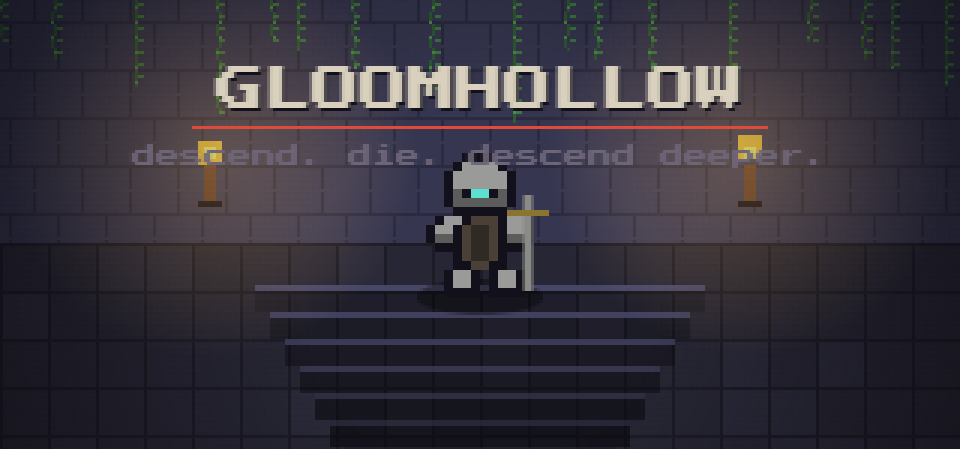
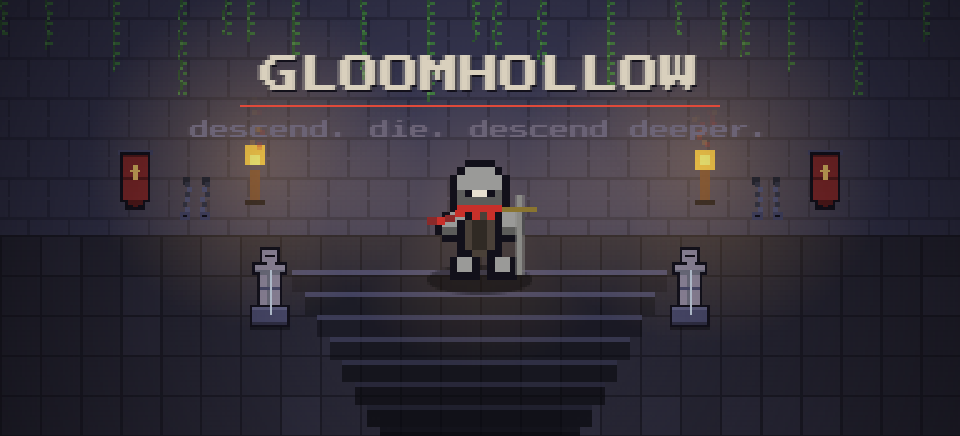
Gloomhollow build 40

diff --git a/index.html b/index.html
@@ -266,7 +266,7 @@ const K='#12101a';
 // Each bearing has its own pixel art (12 wide, 16 tall, feet on the last two rows). Walk frames are derived by nudging the legs apart/together;
 // locked bearings show their silhouette in shadow so you can see the shape you are working toward.
 const SKINS={
- footman:{name:'Footman',desc:'Plain steel. It will do.',rows:['....kkkk....','...kaaaak...','..kaaaaaak..','..kaaaaaak..','..kAkeekAk..','..kAAAAAAk..','...kkkkkk...','.kaakccckaak','kaakcCCckaak','kAAkcCCckAAk','.kkkcCCckkk.','...kcCCck...','...kkcckk...','..kaak.kaak.','..kaak.kaak.','..kkkk.kkkk.'],pal:{k:K,a:'#9a9a98',A:'#5c5c5a',c:'#4a4038',C:'#302a24',e:'#e8e0d0',o:null}},
+ footman:{name:'Footman',desc:'Plain steel. It will do.',rows:['....kkkk....','...kaaaak...','..kaaaaaak..','..kaaaaaak..','..kAkeekAk..','..kAAAAAAk..','..krrrrrrk..','.kaakrcrkaak','kaakcCCckaak','kAAkcCCckAAk','.kkkcCCckkk.','...kcCCck...','...kkcckk...','..kaak.kaak.','..kaak.kaak.','..kkkk.kkkk.'],pal:{k:K,a:'#9a9a98',A:'#5c5c5a',c:'#4a4038',C:'#302a24',e:'#e8e0d0',o:null,r:'#c8302a'}},
  hollow:{name:'Hollow',desc:'Fell 40 hollows',rows:['....kkkk....','...kCCCCk...','..kCCCCCCk..','.kCkwwwwkCk.','.kCkwewewkCk','.kCkwwwwkCk.','..kCkkkkCk..','.kCCCCCCCCk.','kCCcCCCCcCCk','kCCcCCCCcCCk','.kCCCCCCCCk.','.kCkCCCCkCk.','.kk.kCCk.kk.','...kwk.kwk..','...kwk.kwk..','...kkk.kkk..'],pal:{k:K,a:'#3a3440',A:'#2a2430',c:'#3a3440',C:'#2a2430',e:'#e04a3a',o:null,w:'#cfc4b0'},cond:t=>t.gruntKills>=40,prog:t=>[t.gruntKills,40]},
  cultist:{name:'Cultist',desc:'Fell 20 cultists',rows:['.....kk.....','....kCCk....','....kCCk....','...kCCCCk...','...kCCCCk...','..kCkekekCk.','..kCCCCCCk..','.kCCCCCCCCk.','kCCCkggkCCCk','kCCCkggkCCCk','.kCCCCCCCCk.','.kCCCCCCCCk.','.kCCCCCCCCk.','.kCCCCCCCCk.','.kCCkCCkCCk.','.kkkk..kkkk.'],pal:{k:K,a:'#5a3a7a',A:'#3a2450',c:'#5a3a7a',C:'#3a2450',e:'#f4c968',o:null,g:'#f4c968'},cond:t=>t.archerKills>=20,prog:t=>[t.archerKills,20]},
  duelist:{name:'Duelist',desc:'Parry 10 strikes',rows:['.......oo...','.....kkko...','....kaaak...','.kkkkaaakkkk','....ksssk...','....kseesk..','....ksssk...','...kkkkkk...','..kcCcccCck.','.kCkcccccck.','.kCkccccckk.','.kCCkcccck..','..kkkkkkkk..','...kAk.kAk..','...kAk.kAk..','...kkk.kkk..'],pal:{k:K,a:'#3a4050',A:'#2a2a3a',c:'#c8302a',C:'#7a1e1a',e:'#5ce0d0',o:'#f0ece0',s:'#d8c0a0'},cond:t=>t.parries>=10,prog:t=>[t.parries,10]},
@@ -373,6 +373,8 @@ const SPR={
   ".kkk........","koeok..kk...","koookooooOk.",".kkoooooooOk","..kok.kok.Ok","..k.k.k.k..k"],
   {k:K,o:'#e8a33c',O:'#c8503a',e:'#fff0c0'})
 };
+// Rows r0..r1 of a sprite, feet at y: the torso can be drawn a hair wider (sx) and the upper body a pixel higher (dy) without the head growing or the feet leaving the floor.
+function drawSprRows(s,x,y,flip,white,r0,r1,dy,sx){ctx.save();ctx.translate(Math.round(x),Math.round(y));if(flip<0)ctx.scale(-1,1);if(sx&&sx!==1)ctx.scale(sx,1);const img=white?s.white:s.img;ctx.drawImage(img,0,r0,s.w,r1-r0,-Math.floor(s.w/2),-s.h+r0+(dy||0),s.w,r1-r0);ctx.restore();}
 function drawSpr(s,x,y,flip,white,wf){ctx.save();ctx.translate(Math.round(x),Math.round(y));if(flip<0)ctx.scale(-1,1);const img=white?s.white:s.img,ox=-Math.floor(s.w/2);
  if(!wf)ctx.drawImage(img,ox,-s.h);else{const L=3;ctx.drawImage(img,0,0,s.w,s.h-L,ox,-s.h-1,s.w,s.h-L);ctx.drawImage(img,0,s.h-L,s.w,L,ox+wf,-L,s.w,L);}ctx.restore();}
 
@@ -2067,6 +2069,15 @@ function drawFlail(p,sx,sy,sa,moving,a){const dtf=Math.max(0,Math.min(0.05,time-
  ctx.fillStyle=K;ctx.beginPath();ctx.arc(bx,by,4,0,Math.PI*2);ctx.fill();ctx.fillStyle=WEAPONS.mace.col;ctx.beginPath();ctx.arc(bx,by,3,0,Math.PI*2);ctx.fill();
  ctx.fillStyle='#9aa4b4';for(let i=0;i<4;i++){const q=p.fa+i*Math.PI/2+Math.PI/4;ctx.fillRect(bx+Math.cos(q)*3.4-0.7,by+Math.sin(q)*3.4-0.7,1.4,1.4);}ctx.fillStyle='#b8c4d4';ctx.fillRect(Math.round(bx)-1,Math.round(by)-1,1,1);
  return[bx,by];}
+// The Hollow's Chain hangs from the hand as a run of links (a small rope simulation): at rest it droops and sways with each step, held back for a charge it dangles, and a swing whips it out behind the hand so the hook arrives last.
+function drawChain(p,sx,sy,sa,moving,a,len){const N=7,L=Math.max(2,len/(N-1)),swing=p.state==='attack';
+ if(!p.ch||p.ch.length!==N){p.ch=[];for(let i=0;i<N;i++)p.ch.push({x:sx+Math.cos(sa)*L*i,y:sy+Math.sin(sa)*L*i,px:sx+Math.cos(sa)*L*i,py:sy+Math.sin(sa)*L*i});}
+ const ch=p.ch;ch[0].x=sx;ch[0].y=sy;const pull=swing?0.4:p.charging?0.02:0.05,sag=swing?0:0.28;
+ for(let i=1;i<N;i++){const nd=ch[i],vx=(nd.x-nd.px)*0.84,vy=(nd.y-nd.py)*0.84;nd.px=nd.x;nd.py=nd.y;const tx=sx+Math.cos(sa)*L*i,ty=sy+Math.sin(sa)*L*i;nd.x+=vx+(tx-nd.x)*pull;nd.y+=vy+(ty-nd.y)*pull+sag*(i/N)+(moving?Math.sin(p.walk*7+i)*0.12:0);}
+ for(let k=0;k<3;k++){ch[0].x=sx;ch[0].y=sy;for(let i=1;i<N;i++){const a0=ch[i-1],b0=ch[i],dx=b0.x-a0.x,dy=b0.y-a0.y,d=Math.hypot(dx,dy)||1,df=(d-L)/d;if(i===1){b0.x-=dx*df;b0.y-=dy*df;}else{a0.x+=dx*df*0.5;a0.y+=dy*df*0.5;b0.x-=dx*df*0.5;b0.y-=dy*df*0.5;}}}
+ ctx.strokeStyle='#4a4a5c';ctx.lineWidth=1;ctx.beginPath();ctx.moveTo(ch[0].x,ch[0].y);for(let i=1;i<N;i++)ctx.lineTo(ch[i].x,ch[i].y);ctx.stroke();
+ for(let i=1;i<N-1;i++){ctx.fillStyle=i%2?'#9a8f7c':'#6d6578';ctx.beginPath();ctx.arc(ch[i].x,ch[i].y,1.2,0,Math.PI*2);ctx.fill();}
+ const t=ch[N-1];ctx.fillStyle=K;ctx.beginPath();ctx.arc(t.x,t.y,3,0,Math.PI*2);ctx.fill();ctx.fillStyle='#cfc4b0';ctx.beginPath();ctx.arc(t.x,t.y,2.2,0,Math.PI*2);ctx.fill();ctx.fillStyle=K;ctx.fillRect(Math.round(t.x)-1,Math.round(t.y)-1,1,1);return[t.x,t.y];}
 // Your projectiles: a fading trail behind a bright core; bone shards tumble, the lance is a tongue of flame.
 function drawPlayerProj(q){const col=q.col,h=q.hist||[],ang=Math.atan2(q.vy,q.vx);
  for(let i=h.length-1;i>=0;i--){const k=1-i/(h.length+1);ctx.globalAlpha=k*0.45;ctx.fillStyle=col;ctx.beginPath();ctx.arc(h[i].x,h[i].y,Math.max(0.6,q.r*k),0,Math.PI*2);ctx.fill();}ctx.globalAlpha=1;
@@ -2101,7 +2112,9 @@ function drawPlayer(){
   else{const q=(prog-0.18)/0.66,hop=Math.sin(q*Math.PI)*4;ctx.translate(p.x,p.y+1-hop);ctx.rotate(q*Math.PI*2*dir);ctx.drawImage(SPR.roll.img,-5,-4);
    if(Math.random()<0.6)parts.push({x:p.x-p.rollDir.x*4+(Math.random()-.5)*4,y:p.y+p.r-1,vx:-p.rollDir.x*20,vy:-6-Math.random()*8,life:0.25,col:'#6d6578'});}}
  else if(p.state==='fall'){const k=1-p.t/0.75,sc=Math.max(0.15,1-0.85*k*k),drop=10*k;ctx.globalAlpha=Math.max(0,1-k*1.1);ctx.translate(p.x,p.y+p.r+drop);ctx.scale(sc,sc);ctx.rotate(Math.sin(k*9)*0.35*k);ctx.translate(-p.x,-(p.y+p.r));drawSpr(SPR.roll,p.x,p.y+p.r,p.facing,false);}
- else{if(p.inv>0&&Math.floor(p.inv*20)%2===0)ctx.globalAlpha=0.5;if(p.appearT>0){const q=p.appearT/0.3;ctx.translate(p.x,p.y+p.r);ctx.scale(1-0.6*q,1-0.6*q);ctx.translate(-p.x,-(p.y+p.r));}if(idle){ctx.translate(p.x,p.y+p.r);ctx.scale(1-0.015*br,1+0.04*br);ctx.translate(-p.x,-(p.y+p.r));}const wfr=moving?[SPR.walk[0],SPR.player,SPR.walk[1],SPR.player][wframe]:SPR.player;drawSpr(wfr,p.x,p.y+p.r-bob-ib,p.facing,p.flash>0);}
+ else{if(p.inv>0&&Math.floor(p.inv*20)%2===0)ctx.globalAlpha=0.5;if(p.appearT>0){const q=p.appearT/0.3;ctx.translate(p.x,p.y+p.r);ctx.scale(1-0.6*q,1-0.6*q);ctx.translate(-p.x,-(p.y+p.r));}const wfr=moving?[SPR.walk[0],SPR.player,SPR.walk[1],SPR.player][wframe]:SPR.player;
+  if(idle){const sp=SPR.player,H=sp.h,fy=p.y+p.r,legs=3,neck=7,swell=1+0.08*Math.max(0,br),wh=p.flash>0;drawSprRows(sp,p.x,fy,p.facing,wh,H-legs,H,0,1);drawSprRows(sp,p.x,fy,p.facing,wh,neck,H-legs,-ib,swell);drawSprRows(sp,p.x,fy,p.facing,wh,0,neck,-ib,1);}   // breathing from the chest
+  else drawSpr(wfr,p.x,p.y+p.r-bob,p.facing,p.flash>0);}
  ctx.restore();
  if(p.burn>0){const f=Math.floor(time*12)%2;ctx.fillStyle='#e04a3a';ctx.fillRect(Math.round(p.x)-3+f,Math.round(p.y)-12,3,3);ctx.fillRect(Math.round(p.x)+1-f,Math.round(p.y)-9,2,2);ctx.fillStyle='#e8a33c';ctx.fillRect(Math.round(p.x)-2+f,Math.round(p.y)-14+f,2,2);light(p.x,p.y-8,14,'rgba(232,163,60,A)',0.3);}
  if(p.stunT>0){for(let i=0;i<3;i++){const a=time*6+i*2.094;ctx.fillStyle=i===Math.floor(time*9)%3?'#fff0c0':'#f4c968';ctx.fillRect(Math.round(p.x+Math.cos(a)*7)-1,Math.round(p.y-17+Math.sin(a)*2)-1,2,2);}}   // stars while the toll rings in your ears
@@ -2125,7 +2138,7 @@ function drawPlayer(){
   if(w.heavy||a.heavy)len+=3;slash=a.phase==='active';}
  const sx=p.x+Math.cos(sa)*(3+thrust),sy=p.y+Math.sin(sa)*(3+thrust)-2-ib;
  let tipX=sx+Math.cos(sa)*len,tipY=sy+Math.sin(sa)*len;
- if(w.shape==='mace'){const tip=drawFlail(p,sx,sy,sa,moving,a);tipX=tip[0];tipY=tip[1];}else drawWeapon(p.weapon,sx,sy,sa,len);
+ if(w.shape==='mace'){const tip=drawFlail(p,sx,sy,sa,moving,a);tipX=tip[0];tipY=tip[1];}else if(w.shape==='chain'){const tip=drawChain(p,sx,sy,sa,moving,a,len);tipX=tip[0];tipY=tip[1];}else drawWeapon(p.weapon,sx,sy,sa,len);
  if(p.state==='free'&&p.charging){const pr=Math.min(1,p.charge/hv().chg),tx=tipX,ty=tipY;
   if(p.chargeReady){light(tx,ty,14,'rgba(255,255,255,A)',0.45+0.3*Math.sin(time*22));ctx.fillStyle=hexA('#ffffff',0.6+0.4*Math.sin(time*30));ctx.fillRect(Math.round(tx)-1,Math.round(ty)-1,2,2);}
   else light(tx,ty,10,hexA(w.col,'A'),0.1+0.3*pr);}
@@ -2177,8 +2190,11 @@ function drawHUD(){
   if(w.arc>=1){ctx.strokeStyle='rgba(244,201,104,.3)';ctx.lineWidth=1;ctx.beginPath();ctx.arc(x0,y0,w.range,a-w.arc/2,a+w.arc/2);ctx.stroke();}
   ctx.restore();ctx.fillStyle='#f4c968';ctx.fillRect(Math.round(x0+Math.cos(a)*L)-1,Math.round(y0+Math.sin(a)*L)-1,3,3);}
  const it=p.state==='free'?nearItem():null;
- if(it){const label=itemLabel(it)+(it.price>0?'  '+priceOf(it):'');const wdt=label.length*8+8;let x=Math.round(it.x-wdt/2);x=Math.max(2-OFFX,Math.min(W-wdt-2-OFFX,x));const y=Math.round(it.y-26);
-  ctx.fillStyle='rgba(12,11,18,.85)';ctx.fillRect(x,y,wdt,11);txt(label,x+4,y+2,priceOf(it)>souls?'#c8302a':'#f4c968');txt('Q',x+wdt/2-4,y+12,'#6d6578');}
+ if(it){const full=itemLabel(it),price=it.price>0?String(priceOf(it)):'';let L=full.length>22?msgLines(full.replace(' (',' \u2022 (')):[full];if(L.length===1&&full.length>22){const k=full.lastIndexOf(' ',24);if(k>6)L=[full.slice(0,k),full.slice(k+1)];}
+  if(price){if(L[L.length-1].length+price.length+2<=26)L[L.length-1]+='  '+price;else L.push(price+' souls');}
+  const wdt=Math.max(...L.map(t=>t.length))*8+8+12,hgt=L.length*9+4;let x=Math.round(it.x-wdt/2);x=Math.max(2-OFFX,Math.min(W-wdt-2-OFFX,x));const y=Math.round(it.y-18-hgt);
+  ctx.fillStyle='rgba(12,11,18,.85)';ctx.fillRect(x,y,wdt,hgt);const col=priceOf(it)>souls?'#c8302a':'#f4c968';L.forEach((t,i)=>txt(t,x+4,y+2+i*9,col));ctx.fillStyle='#2e2d42';ctx.fillRect(x+wdt-11,y+2,9,9);txt('Q',x+wdt-10,y+3,'#8a8296');
+  ctx.fillStyle='rgba(12,11,18,.85)';ctx.fillRect(Math.round(it.x)-1,y+hgt,2,2);}   // a two-line card centred on the item with the key in its corner; a tick points down at the item
  if(msg.t>0){ctx.globalAlpha=Math.min(1,msg.t*2);ctx.setTransform(1,0,0,1,0,0);const L=msgLines(msg.txt),mw=Math.max(...L.map(s=>s.length))*8+12,y0=CH-30-(L.length-1)*10;   // room messages sit at the foot of the screen, clear of item labels
   ctx.fillStyle='rgba(12,11,18,.8)';ctx.fillRect(Math.round(W/2-mw/2),y0-3,mw,L.length*10+5);L.forEach((s,i)=>txt(s,W/2,y0+i*10,'#f4c968','center'));msg.y=y0;ctx.setTransform(1,0,0,1,OFFX,OFFY);ctx.globalAlpha=1;}
 }
@@ -2354,8 +2370,13 @@ function draw(){
   ctx.fillStyle='#06060a';ctx.fillRect(Math.round(sx-45),sy+99,90,CH-(sy+99));
   // torches
   for(const tx of [W/2-90,W/2+90]){const ty=ly-26;ctx.fillStyle='#5a3a2a';ctx.fillRect(tx-2,ty,4,14);ctx.fillStyle=K;ctx.fillRect(tx-4,ty+12,8,2);const f=Math.sin(time*18+tx)*0.5+0.5;ctx.fillStyle='#e8a33c';ctx.fillRect(tx-4,ty-8-Math.round(f*2),8,8);ctx.fillStyle='#f4c968';ctx.fillRect(tx-2,ty-6,4,4);light(tx,ty-4,70+Math.sin(time*11+tx)*4,'rgba(232,163,60,A)',0.28);}
-  // knight, 3x, standing at the top step, sword planted
-  const kx=W/2,ky=sy+4;ctx.save();ctx.translate(kx,ky);ctx.scale(3,3);ctx.fillStyle='rgba(0,0,0,.35)';ctx.beginPath();ctx.ellipse(0,0,7,2,0,0,Math.PI*2);ctx.fill();ctx.drawImage(SPR.player.img,-SPR.player.w/2,-SPR.player.h);ctx.restore();
+  // cloth banners on the wall, chains beside them, hooded statues either side of the stair
+  for(const[bx,v]of[[W/2-138,1],[W/2+138,1]]){drawDecor({kind:'banner',x:bx,y:ly-4,v});drawDecor({kind:'chains',x:bx+(bx<W/2?24:-24),y:ly-8});}
+  for(const sx2 of[W/2-84,W/2+84])drawDecor({kind:'statue',x:sx2,y:ly+30,v:0});
+  for(const tx of [W/2-90,W/2+90])if(Math.random()<0.25)parts.push({x:tx+(Math.random()-.5)*6,y:ly-36,vx:(Math.random()-.5)*8,vy:-14-Math.random()*10,life:0.9,col:Math.random()<0.5?'#e8a33c':'#e04a3a',noG:true});   // embers off the torches
+  // knight, 3x, standing at the top step, sword planted; the red cloth at his neck lifts in the draught from below
+  const kx=W/2,ky=sy+4;light(kx,ky-24,60,'rgba(232,163,60,A)',0.18);ctx.save();ctx.translate(kx,ky);ctx.scale(3,3);ctx.fillStyle='rgba(0,0,0,.35)';ctx.beginPath();ctx.ellipse(0,0,7,2,0,0,Math.PI*2);ctx.fill();ctx.drawImage(SPR.player.img,-SPR.player.w/2,-SPR.player.h);ctx.restore();
+  for(let i=0;i<4;i++){const fl=Math.sin(time*5+i*0.9);ctx.fillStyle=i%2?'#8a2a2a':'#c8302a';ctx.fillRect(Math.round(kx-9-i*4-Math.abs(fl)),Math.round(ky-29+i*1.5+fl*2),4,3);}
   ctx.strokeStyle='#8a8a86';ctx.lineWidth=3;ctx.beginPath();ctx.moveTo(kx+16,ky-2);ctx.lineTo(kx+16,ky-34);ctx.stroke();ctx.strokeStyle='#8a7530';ctx.lineWidth=2;ctx.beginPath();ctx.moveTo(kx+9,ky-28);ctx.lineTo(kx+23,ky-28);ctx.stroke();
   // fog rising from the stairwell
   if(Math.random()<0.4)parts.push({x:sx+(Math.random()-.5)*80,y:sy+90,vx:(Math.random()-.5)*6,vy:-8-Math.random()*6,life:2.5,col:'#3a3a52',noG:true});

diff --git a/sw.js b/sw.js
@@ -1,6 +1,6 @@
 // Gloomhollow service worker — caches the game so it launches offline.
 // Bump CACHE whenever you upload a new index.html.
-const CACHE = 'gloomhollow-v39';
+const CACHE = 'gloomhollow-v40';
 const CORE = ['./', './index.html', './manifest.json',
   './icons/icon-192.png', './icons/icon-512.png', './icons/icon-512-maskable.png', './icons/icon-180.png', './icons/favicon-32.png'];
 

diff --git a/README.md b/README.md
@@ -1,8 +1,8 @@
 <p align="center"><img src="readme/banner.png" alt="Gloomhollow" width="720"></p>
 
-<h3 align="center">A slow, Souls-like pixel dungeon crawler. Five floors down to the Wyrm, then loop.</h3>
+<h3 align="center">A slow, Souls-like pixel dungeon crawler. Six floors down to the Wyrm, then loop.</h3>
 
-<p align="center"><a href="https://sickssens3.github.io/play-gloomhollow/"><img src="readme/play.png" alt="Play now" width="360"></a></p>
+<p align="center"><a href="https://sickssens3.github.io/play-gloomhollow/"><img src="readme/play.png" alt="Play now" width="270"></a></p>
 
 <p align="center">Plays in the browser on desktop and phone. Installs as an app from the browser menu and runs offline. No account, no download.</p>
 
@@ -18,9 +18,7 @@ Every run is a new dungeon: three biomes, each with its own hazards, litter and 
 
 One strike per weapon, and a charged heavy on every one: hold right click, or hold the aim stick at its rim, then let go. Block in every direction. Time the block and you parry; parry and the riposte is yours. Roll through pits, dodge the red wedge where a blow is about to land, and drink from the well when you find it.
 
-Fifteen weapons, and every heavy is its own art. The spear impales everything in a line. The chain hauls what it hits to your feet. The scythe mends you for every foe it reaps. The rapier blinks through a foe and strikes from behind. The frost axe shatters the chilled, the cleaver butchers the nearly dead, the halberd leaves a ward, the warhammer stuns the whole pound, the sabre dashes untouchable, and the daggers leave their marks bleeding. Pick the weapon for the build you want.
-
-Magic comes back only between rooms. This is a melee game.
+Fifteen weapons, from thief's daggers that loose a flurry to a tomb warhammer that shakes the ground. Magic comes back only between rooms. This is a melee game.
 
 ## The bosses
 
